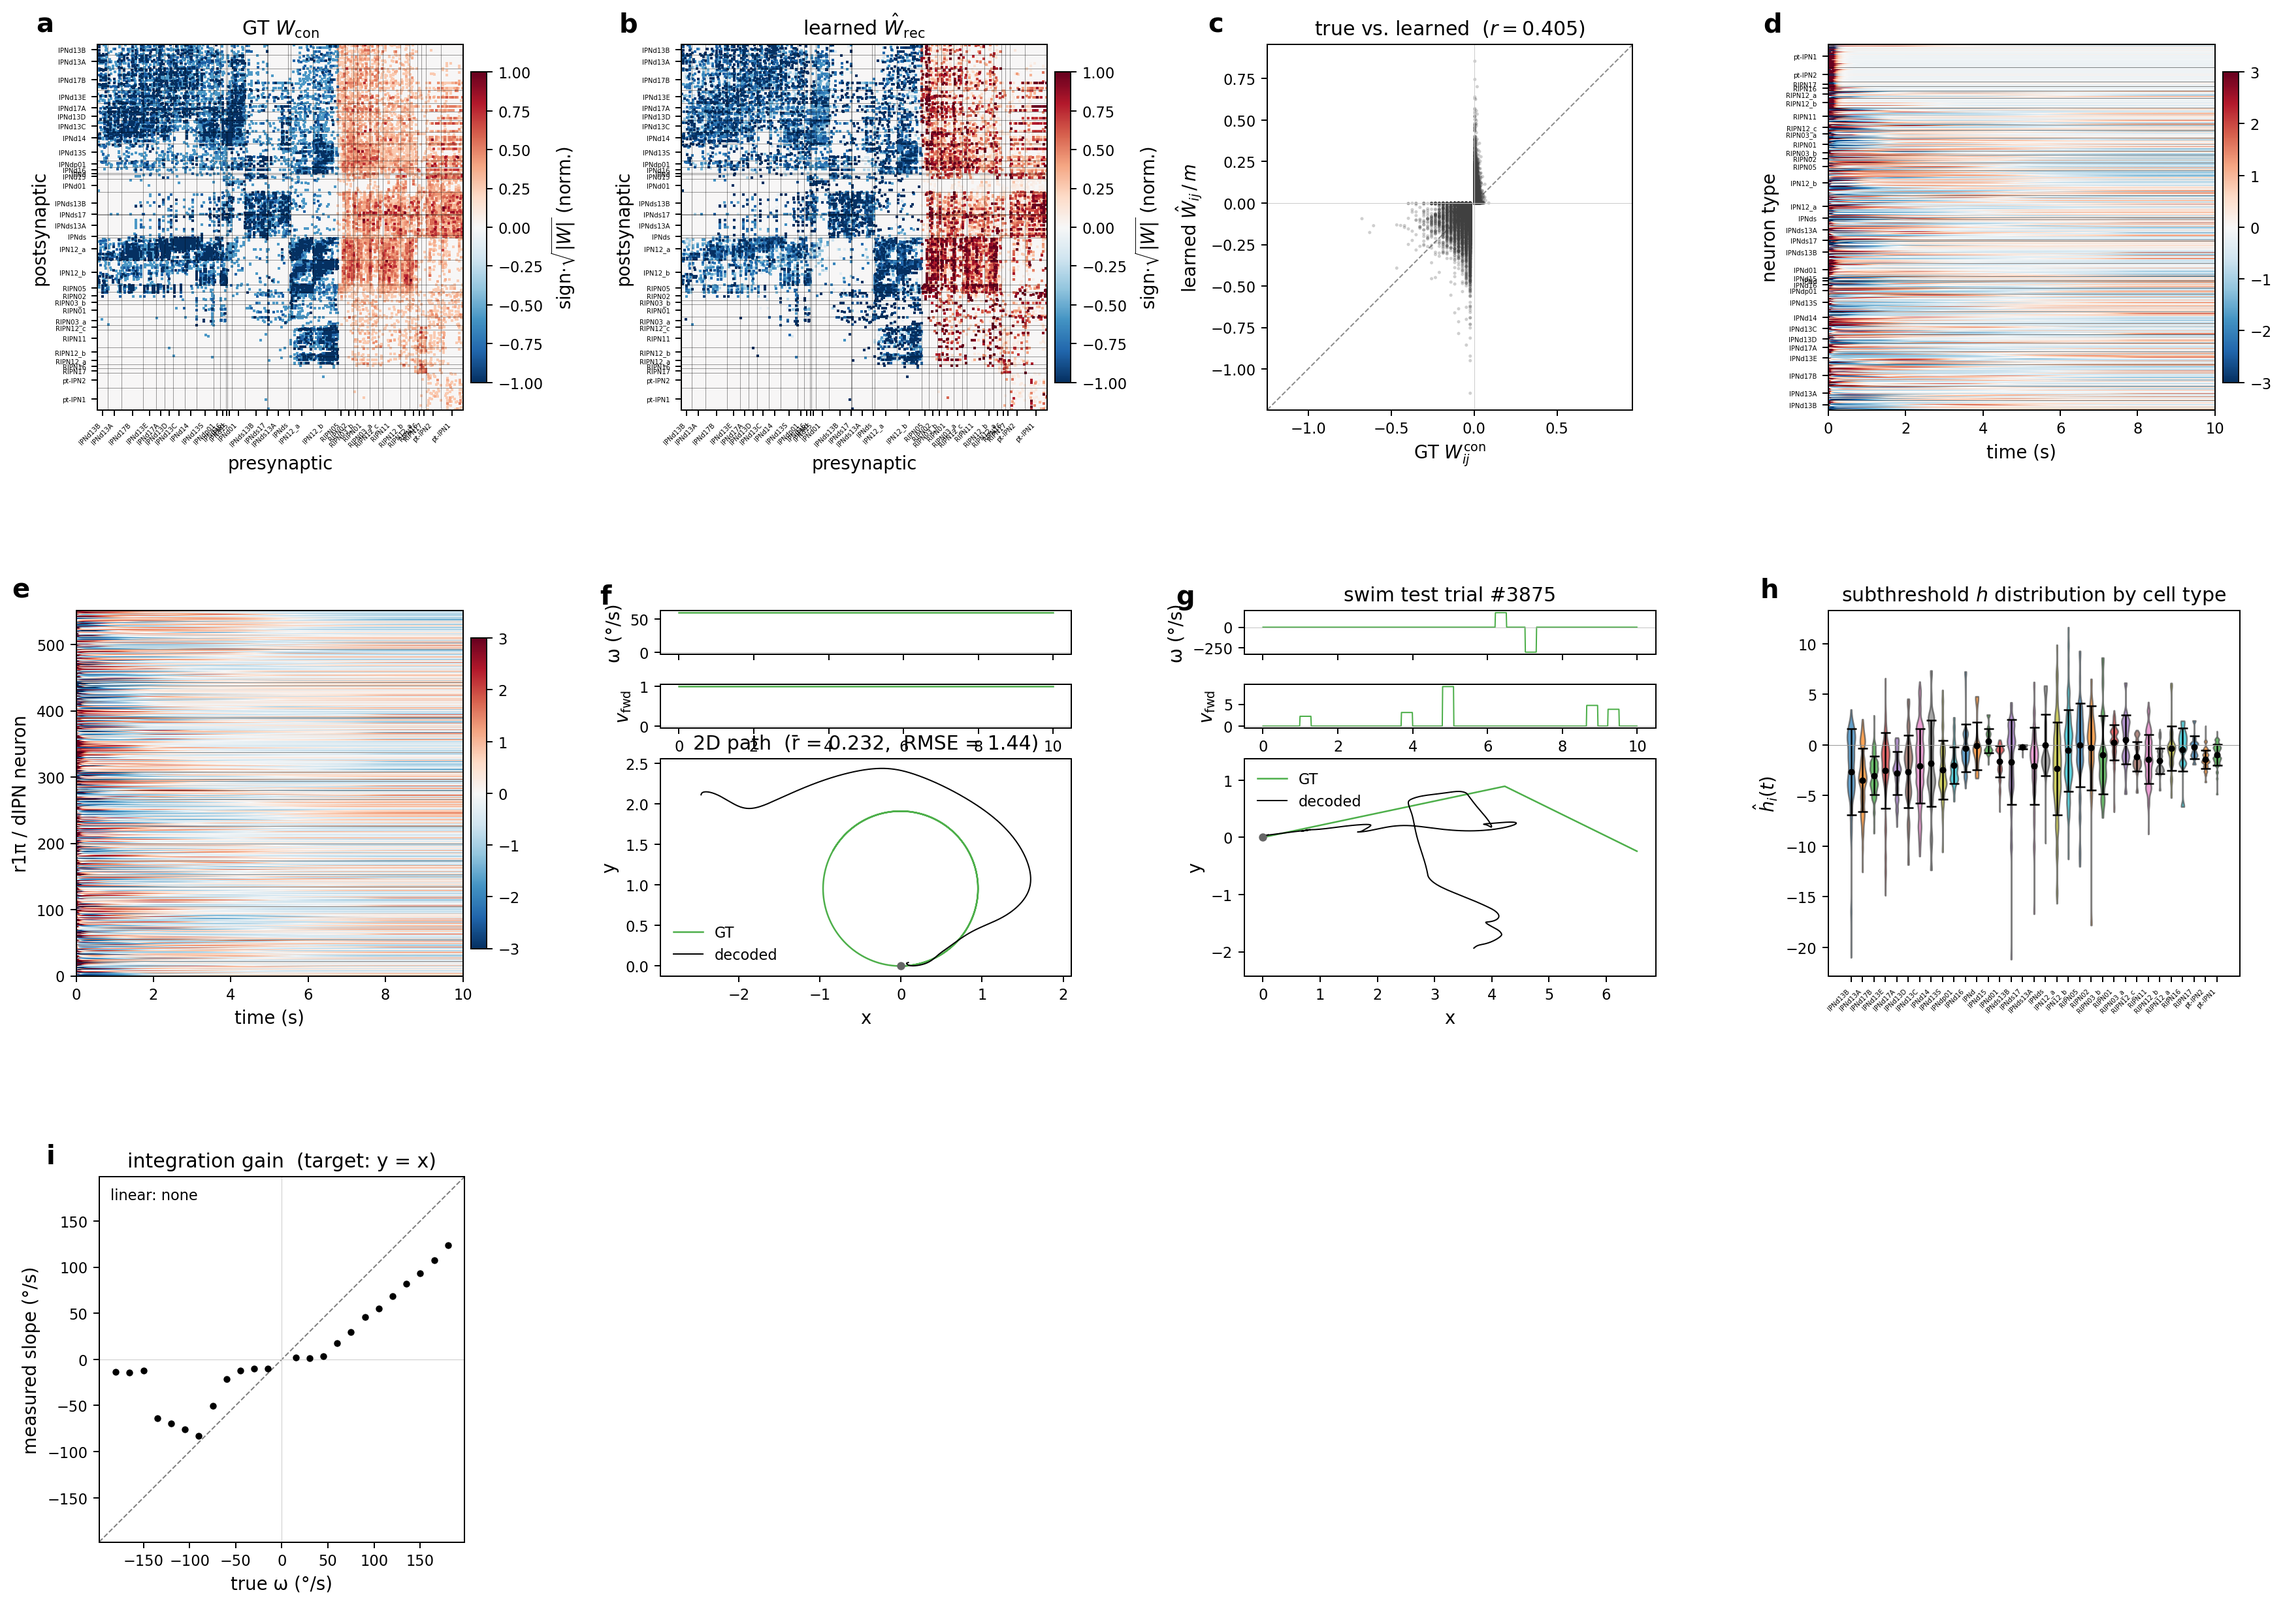
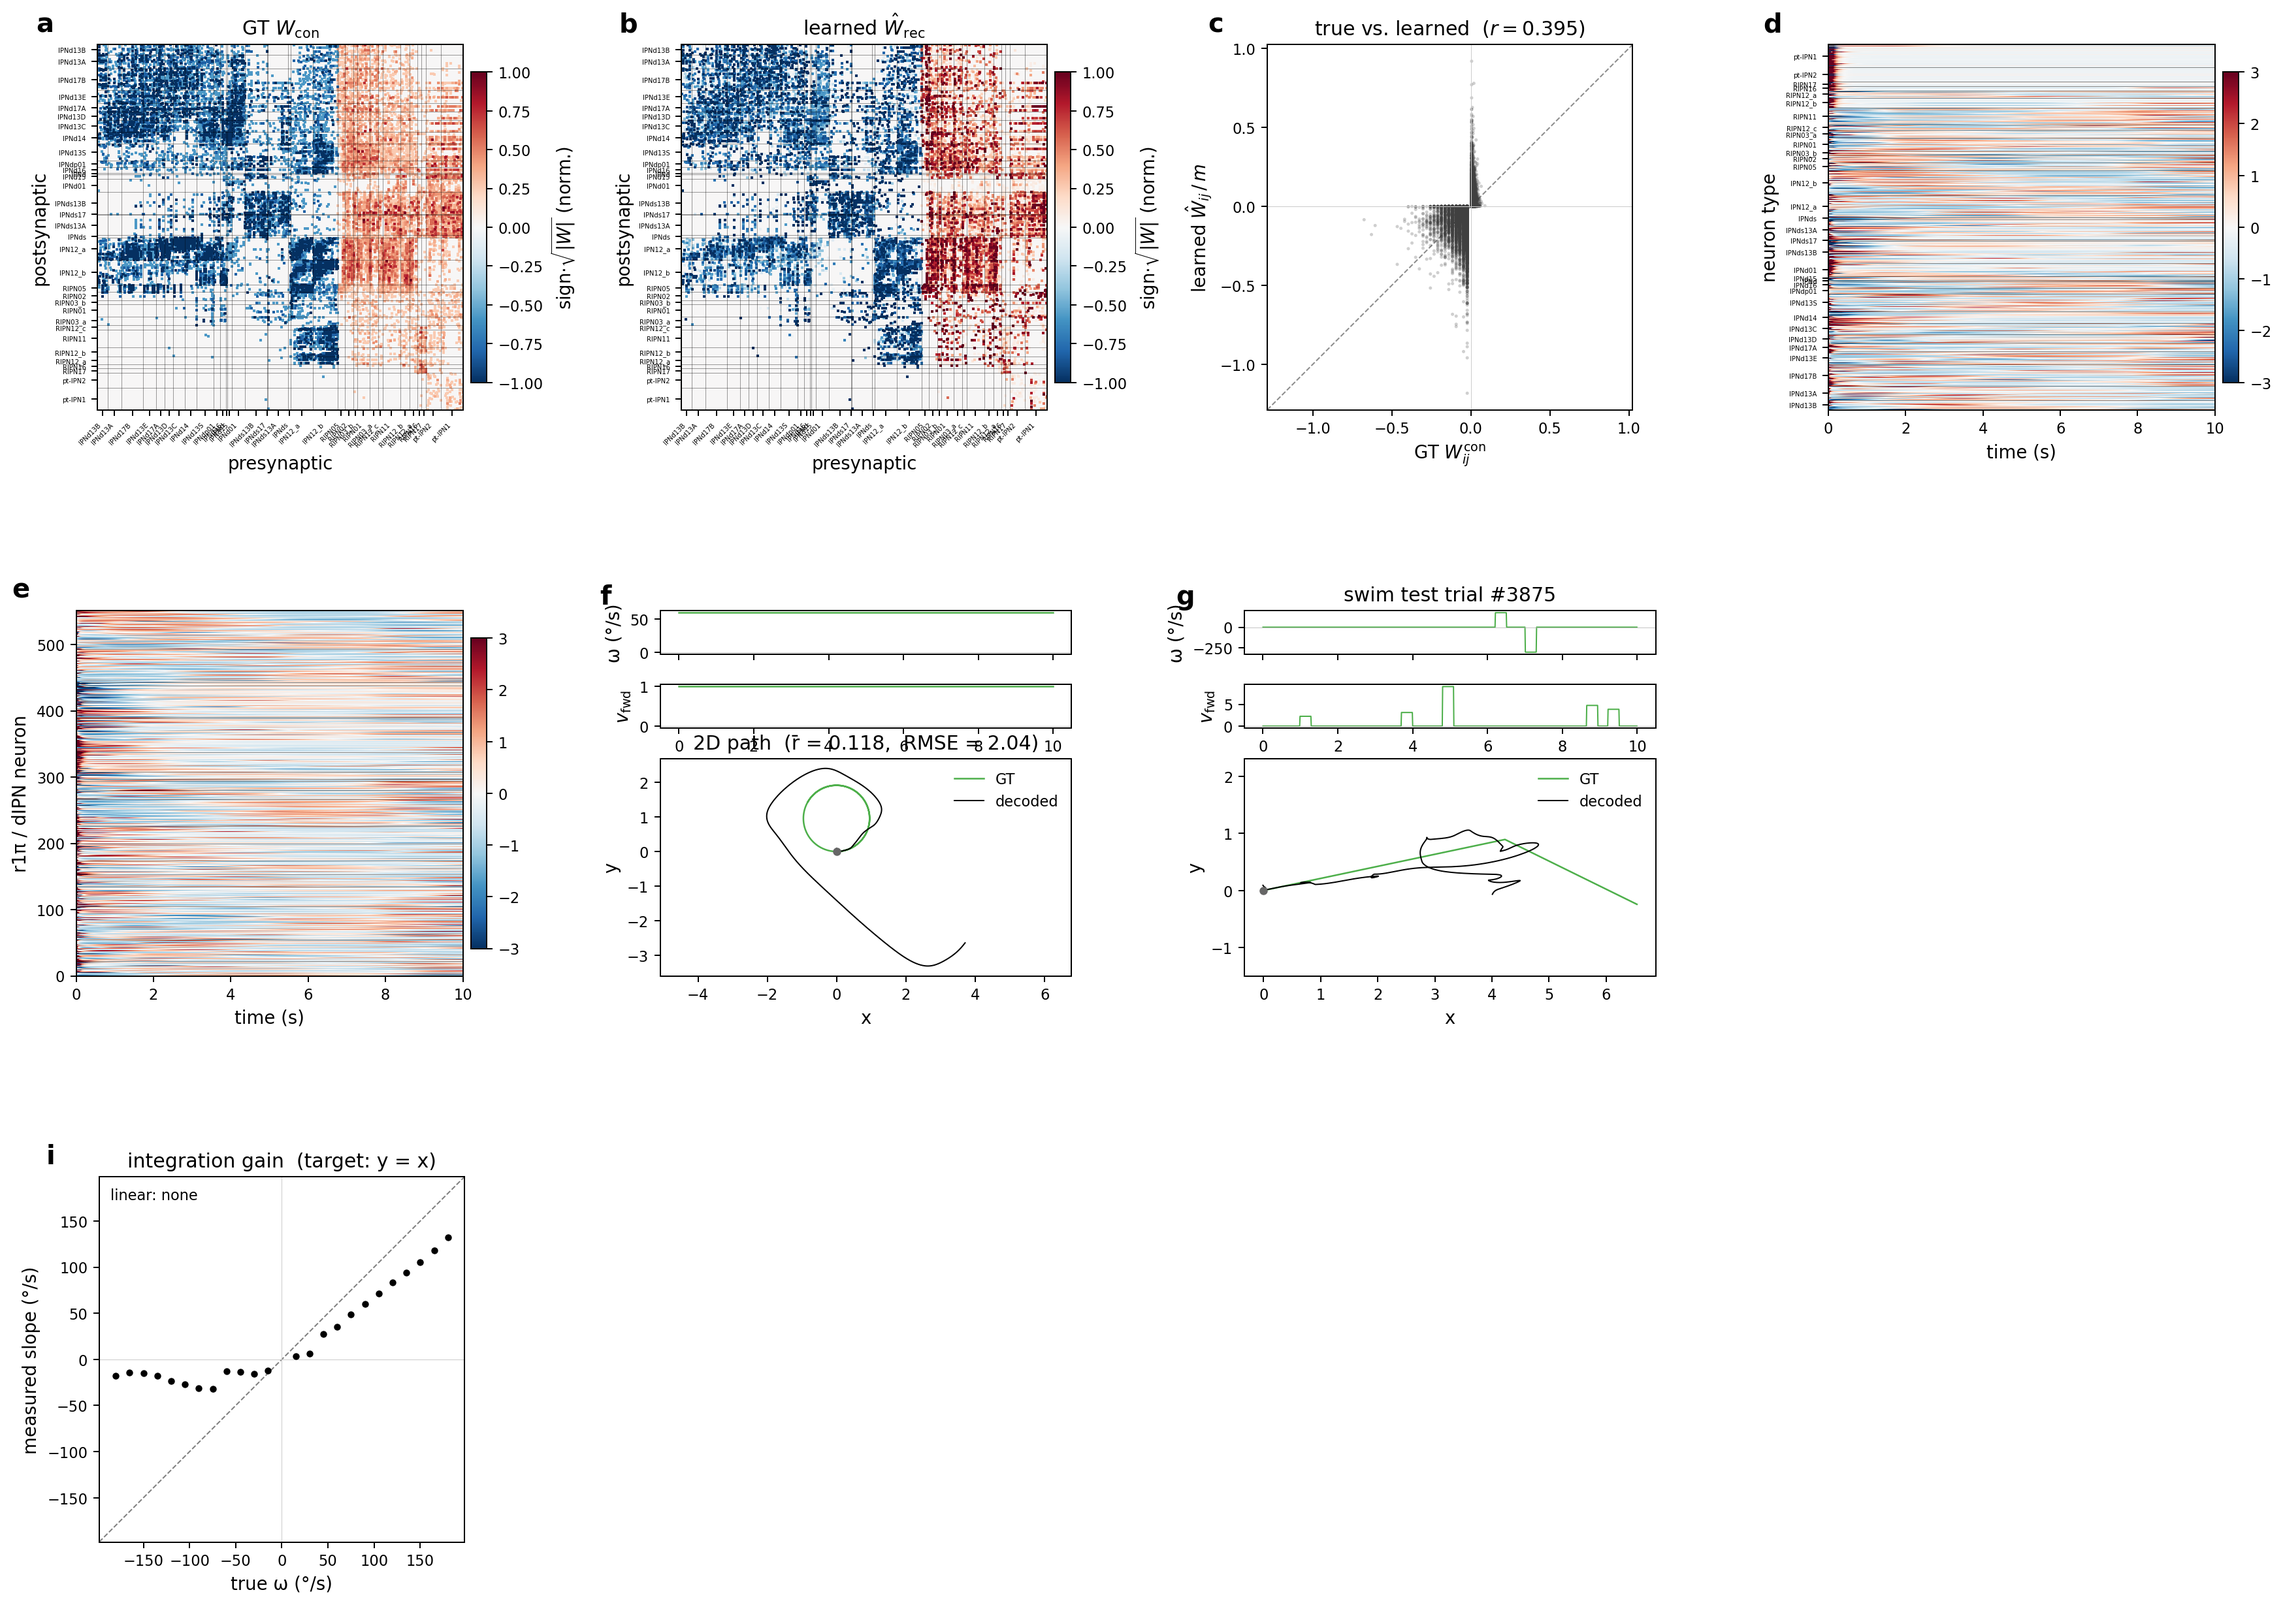
Section 4.2: per-model test composite stacked below each evolution figure; panel h dropped
Each of the seven evolution figures in Section 4.2 now includes the test-composite image (random held-out trials + constant-input deterministic sweep) below the evolution panels, so the figure caption covers both training-time anatomy and held-out test performance in one place.

* fig_zebrafish_artr_pt1_test_results.py (new): builds one composite PNG per run (fig_test_<run>.png) by stacking results/test_random_trials.png on top of the matching results/test_deterministic_*.png (ω-sweep for rotation/both, v_fwd-sweep for translation, (x,y)-sweep for position_2d).
* docs/zebrafish.tex: each of the seven figure blocks now contains both the evolution PNG and the test composite, separated by a small vertical skip.
* plot_cx.py: panel (h) ("subthreshold h distribution by cell type") removed from the standalone evolution figure — slot stays in the gridspec but is set to axis_off so the overall layout doesn't shift. Calcium-panel callers (training-time observation loss snapshots) still get their per-trial calcium-vs-real plot in the same slot.

diff --git a/figures/zebrafish/fig_zebrafish_artr_pt1_test_results.py b/figures/zebrafish/fig_zebrafish_artr_pt1_test_results.py
@@ -1,0 +1,126 @@
+"""Per-model test-result composite: random trials + deterministic sweep.
+
+For each trained ARTR / pt-IPN1 variant, stacks the two test PNGs
+produced by ``GNN_Main.py -o test``
+(``results/test_random_trials.png`` and the appropriate
+``results/test_deterministic_*.png``) into a single composite
+``figures/zebrafish/fig_test_<run>.png`` referenced by the manuscript.
+
+Composite layout (top → bottom):
+    row 1:  test_random_trials.png        (held-out trials)
+    row 2:  test_deterministic_<mode>.png (constant-input rollout)
+
+The deterministic plot picked per variant:
+    rotation         → test_deterministic_sweep.png         (ω-sweep)
+    translation      → test_deterministic_v_fwd_sweep.png   (v_fwd-sweep)
+    translation_leaky → same
+    both             → test_deterministic_sweep.png         (ω-sweep)
+    both_leaky       → same
+    position_2d      → test_deterministic_2d_sweep.png      ((x,y) sweep)
+    position_2d_leaky → same
+"""
+from __future__ import annotations
+
+import argparse
+import os
+import sys
+
+import matplotlib
+matplotlib.use("Agg")
+import matplotlib.pyplot as plt
+import matplotlib.image as mpimg
+
+HERE = os.path.dirname(os.path.abspath(__file__))
+
+PREFIX = "zebrafish_hd_si_ipn12_artr_pt1_"
+# (suffix, deterministic-png basename, short label)
+VARIANTS = [
+    ("selfmotion_rotation",
+     "test_deterministic_sweep.png",
+     "rotation only"),
+    ("selfmotion_translation",
+     "test_deterministic_v_fwd_sweep.png",
+     "translation only (perfect d)"),
+    ("selfmotion_translation_leaky",
+     "test_deterministic_v_fwd_sweep.png",
+     "translation only (leaky d)"),
+    ("selfmotion_both",
+     "test_deterministic_sweep.png",
+     "rotation + scalar d (perfect)"),
+    ("selfmotion_both_leaky",
+     "test_deterministic_sweep.png",
+     "rotation + scalar d (leaky)"),
+    ("position_2d",
+     "test_deterministic_2d_sweep.png",
+     "rotation + 2D path (perfect)"),
+    ("position_2d_leaky",
+     "test_deterministic_2d_sweep.png",
+     "rotation + 2D path (leaky)"),
+]
+
+
+def _compose(random_png: str, det_png: str, out_path: str, label: str) -> None:
+    if not os.path.isfile(random_png):
+        print(f"  SKIP {os.path.basename(out_path)}: missing {random_png}")
+        return
+    if not os.path.isfile(det_png):
+        print(f"  SKIP {os.path.basename(out_path)}: missing {det_png}")
+        return
+
+    img_top = mpimg.imread(random_png)
+    img_bot = mpimg.imread(det_png)
+
+    # Match widths by scaling heights to preserve aspect; matplotlib
+    # imshow handles the unequal source widths via the data extent below.
+    h_top, w_top = img_top.shape[:2]
+    h_bot, w_bot = img_bot.shape[:2]
+    # Display each row at the same on-figure width; height ratio
+    # preserves the original aspect of each input.
+    target_w = max(w_top, w_bot)
+    ar_top = h_top / w_top
+    ar_bot = h_bot / w_bot
+    fig_w = 13.0
+    fig_h = fig_w * (ar_top + ar_bot) + 0.6   # 0.6" for the row labels
+    fig, (ax_t, ax_b) = plt.subplots(
+        2, 1, figsize=(fig_w, fig_h),
+        gridspec_kw={"height_ratios": [ar_top, ar_bot]},
+    )
+    ax_t.imshow(img_top); ax_t.set_axis_off()
+    ax_b.imshow(img_bot); ax_b.set_axis_off()
+    ax_t.set_title("Random held-out trials", fontsize=12, loc="left",
+                    fontweight="bold")
+    ax_b.set_title("Constant-input deterministic sweep", fontsize=12,
+                    loc="left", fontweight="bold")
+    fig.suptitle(label, fontsize=13, y=1.0)
+    fig.subplots_adjust(left=0.01, right=0.99, top=0.96, bottom=0.01,
+                         hspace=0.02)
+    os.makedirs(os.path.dirname(out_path) or ".", exist_ok=True)
+    fig.savefig(out_path, dpi=170, bbox_inches="tight")
+    plt.close(fig)
+    print(f"  wrote {out_path}")
+
+
+def main():
+    p = argparse.ArgumentParser(description=__doc__)
+    p.add_argument("--data_root",
+                   default="/groups/saalfeld/home/allierc/GraphData")
+    p.add_argument("--out_dir", default=HERE)
+    p.add_argument("--only", nargs="+", default=None,
+                   help="render only these suffixes (e.g. selfmotion_rotation)")
+    args = p.parse_args()
+
+    wanted = set(args.only) if args.only else None
+    for suffix, det_name, label in VARIANTS:
+        if wanted is not None and suffix not in wanted:
+            continue
+        run = PREFIX + suffix
+        results = os.path.join(args.data_root, "log", "zebrafish",
+                                run, "results")
+        random_png = os.path.join(results, "test_random_trials.png")
+        det_png    = os.path.join(results, det_name)
+        out_path   = os.path.join(args.out_dir, f"fig_test_{run}.png")
+        _compose(random_png, det_png, out_path, f"{label} — {suffix}")
+
+
+if __name__ == "__main__":
+    main()

diff --git a/docs/zebrafish.tex b/docs/zebrafish.tex
@@ -775,7 +775,8 @@ sign-locked re-scaling described in \cref{method:RNN}.
 
 \begin{figure}[p]
   \centering
-  \includegraphics[width=\textwidth]{\figdir/fig_evolution_zebrafish_hd_si_ipn12_artr_pt1_selfmotion_rotation.png}
+  \includegraphics[width=\textwidth]{\figdir/fig_evolution_zebrafish_hd_si_ipn12_artr_pt1_selfmotion_rotation.png}\\[0.4em]
+  \includegraphics[width=\textwidth]{\figdir/fig_test_zebrafish_hd_si_ipn12_artr_pt1_selfmotion_rotation.png}
   \caption{\textbf{Trained heading integrator on the ARTR / pt-IPN1
   variant of \cref{fig:zhd_3d}\textbf{c}.} Sign-locked RNN with
   $\hat W^{\mathrm{rec}} = |\hat S|\odot\mathrm{sign}(W^{\mathrm{con}})$
@@ -886,7 +887,8 @@ left blank.
 
 \begin{figure}[p]
   \centering
-  \includegraphics[width=\textwidth]{\figdir/fig_evolution_zebrafish_hd_si_ipn12_artr_pt1_selfmotion_translation.png}
+  \includegraphics[width=\textwidth]{\figdir/fig_evolution_zebrafish_hd_si_ipn12_artr_pt1_selfmotion_translation.png}\\[0.4em]
+  \includegraphics[width=\textwidth]{\figdir/fig_test_zebrafish_hd_si_ipn12_artr_pt1_selfmotion_translation.png}
   \caption{\textbf{Trained translation-only integrator, perfect target.}
   Same panel layout as \cref{fig:zhd_evolution_artr_pt1}. The
   one-output forward-distance head is supervised against
@@ -897,7 +899,8 @@ left blank.
 
 \begin{figure}[p]
   \centering
-  \includegraphics[width=\textwidth]{\figdir/fig_evolution_zebrafish_hd_si_ipn12_artr_pt1_selfmotion_translation_leaky.png}
+  \includegraphics[width=\textwidth]{\figdir/fig_evolution_zebrafish_hd_si_ipn12_artr_pt1_selfmotion_translation_leaky.png}\\[0.4em]
+  \includegraphics[width=\textwidth]{\figdir/fig_test_zebrafish_hd_si_ipn12_artr_pt1_selfmotion_translation_leaky.png}
   \caption{\textbf{Trained translation-only integrator, leaky target}
   ($\tau_d=0.5\,$s). Same panel layout as
   \cref{fig:zhd_evolution_artr_pt1}.}
@@ -924,7 +927,8 @@ problem of the translation-only run is task-, not input-, dependent.
 
 \begin{figure}[p]
   \centering
-  \includegraphics[width=\textwidth]{\figdir/fig_evolution_zebrafish_hd_si_ipn12_artr_pt1_selfmotion_both.png}
+  \includegraphics[width=\textwidth]{\figdir/fig_evolution_zebrafish_hd_si_ipn12_artr_pt1_selfmotion_both.png}\\[0.4em]
+  \includegraphics[width=\textwidth]{\figdir/fig_test_zebrafish_hd_si_ipn12_artr_pt1_selfmotion_both.png}
   \caption{\textbf{Trained rotation $+$ scalar-distance integrator,
   perfect target.} Same panel layout as
   \cref{fig:zhd_evolution_artr_pt1}; panel (g) overlays the GT and
@@ -934,7 +938,8 @@ problem of the translation-only run is task-, not input-, dependent.
 
 \begin{figure}[p]
   \centering
-  \includegraphics[width=\textwidth]{\figdir/fig_evolution_zebrafish_hd_si_ipn12_artr_pt1_selfmotion_both_leaky.png}
+  \includegraphics[width=\textwidth]{\figdir/fig_evolution_zebrafish_hd_si_ipn12_artr_pt1_selfmotion_both_leaky.png}\\[0.4em]
+  \includegraphics[width=\textwidth]{\figdir/fig_test_zebrafish_hd_si_ipn12_artr_pt1_selfmotion_both_leaky.png}
   \caption{\textbf{Trained rotation $+$ scalar-distance integrator,
   leaky target} ($\tau_d=0.5\,$s). Same panel layout as
   \cref{fig:zhd_evolution_both}.}
@@ -964,7 +969,8 @@ constant-drive probes even when the per-frame error is small. Panels
 
 \begin{figure}[p]
   \centering
-  \includegraphics[width=\textwidth]{\figdir/fig_evolution_zebrafish_hd_si_ipn12_artr_pt1_position_2d.png}
+  \includegraphics[width=\textwidth]{\figdir/fig_evolution_zebrafish_hd_si_ipn12_artr_pt1_position_2d.png}\\[0.4em]
+  \includegraphics[width=\textwidth]{\figdir/fig_test_zebrafish_hd_si_ipn12_artr_pt1_position_2d.png}
   \caption{\textbf{Trained 2-D path integrator, perfect target.}
   Panels (a)--(e), (h)--(i) follow \cref{fig:zhd_evolution_artr_pt1};
   panels (f)--(g) show the decoded path $(x,y)$ in spatial coordinates
@@ -974,7 +980,8 @@ constant-drive probes even when the per-frame error is small. Panels
 
 \begin{figure}[p]
   \centering
-  \includegraphics[width=\textwidth]{\figdir/fig_evolution_zebrafish_hd_si_ipn12_artr_pt1_position_2d_leaky.png}
+  \includegraphics[width=\textwidth]{\figdir/fig_evolution_zebrafish_hd_si_ipn12_artr_pt1_position_2d_leaky.png}\\[0.4em]
+  \includegraphics[width=\textwidth]{\figdir/fig_test_zebrafish_hd_si_ipn12_artr_pt1_position_2d_leaky.png}
   \caption{\textbf{Trained 2-D path integrator, leaky target}
   ($\tau_p=0.5\,$s). Same panel layout as
   \cref{fig:zhd_evolution_position2d}.}

diff --git a/src/connectome_gnn/plot_cx.py b/src/connectome_gnn/plot_cx.py
@@ -2280,7 +2280,12 @@ def plot_cx_evolution(data: dict, out_path: str, *,
     else:
         ax_g_top = fig.add_subplot(gs[1, 2])
         ax_g_top.axis("off")
+    # Panel h ("subthreshold h distribution by cell type") was dropped
+    # from the evolution figure; the third/fourth manuscript rows are
+    # the test composite (random trials + deterministic sweep) stacked
+    # via \includegraphics in the LaTeX figure block.
     ax_h = fig.add_subplot(gs[1, 3])
+    ax_h.axis("off")
 
     _panel_matrix(ax_a, data["W_con"],
                    data["neuron_types"], data["type_names"],
@@ -2318,19 +2323,14 @@ def plot_cx_evolution(data: dict, out_path: str, *,
     _panel_label(ax_f_top, "f")
     _panel_label(ax_g_top, "g")
 
+    # Panel h slot is hidden (was the per-cell-type subthreshold h
+    # violin); calcium-panel callers still get their comparison plot
+    # drawn into the same slot so the existing observation-loss
+    # figures keep working.
     if data.get("calcium_panel") is not None:
-        # Real-calcium training (zebrafish): panel h compares the recorded ΔF/F
-        # against the model's voltage→GCaMP calcium on one held-out trial,
-        # row-for-row in the same rastermap order.
+        ax_h.set_axis_on()
         _panel_calcium_compare(ax_h, data["calcium_panel"])
-    else:
-        h_rollout = np.asarray(data["rollout"]["h"])
-        _panel_voltage_distribution(
-            ax_h, h_rollout,
-            neuron_types=data["neuron_types"],
-            type_names=data["type_names"],
-        )
-    _panel_label(ax_h, "h")
+        _panel_label(ax_h, "h")
 
     if n_rows < 3:
         os.makedirs(os.path.dirname(out_path) or ".", exist_ok=True)
